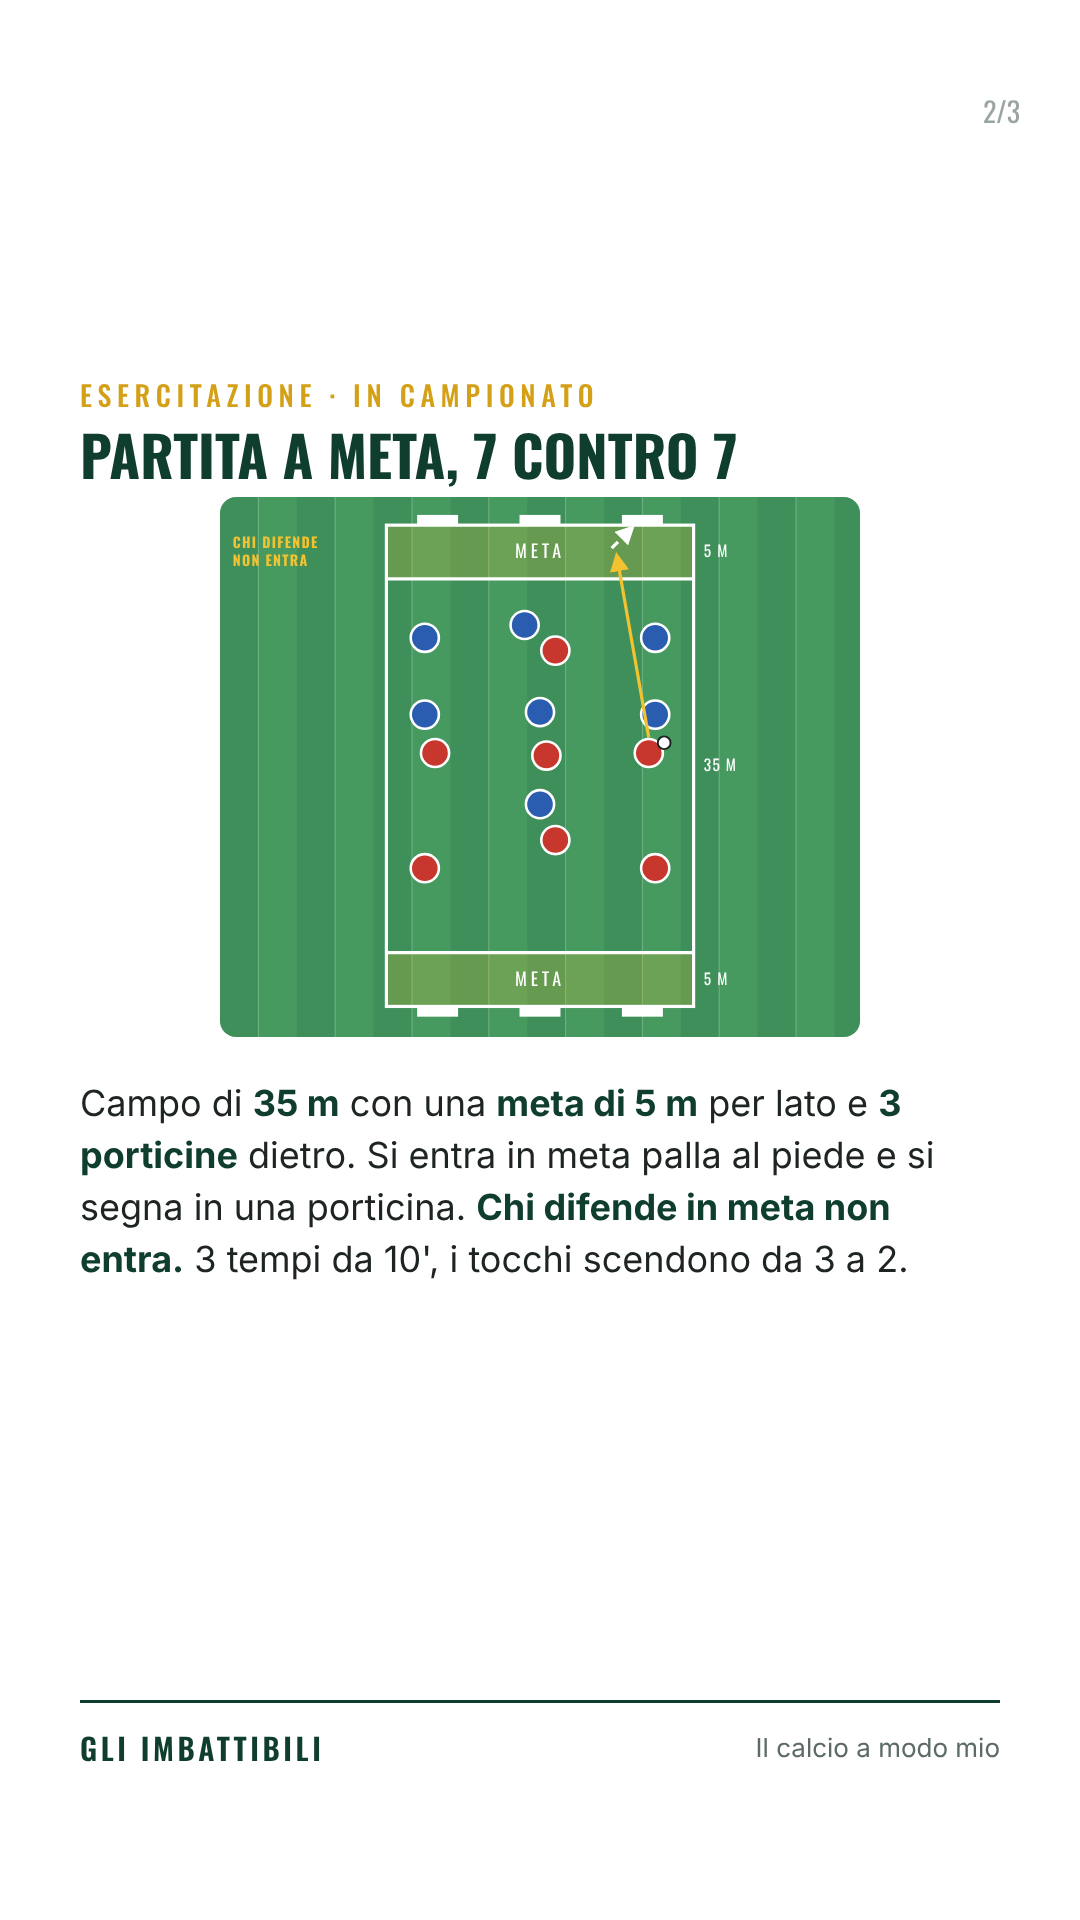
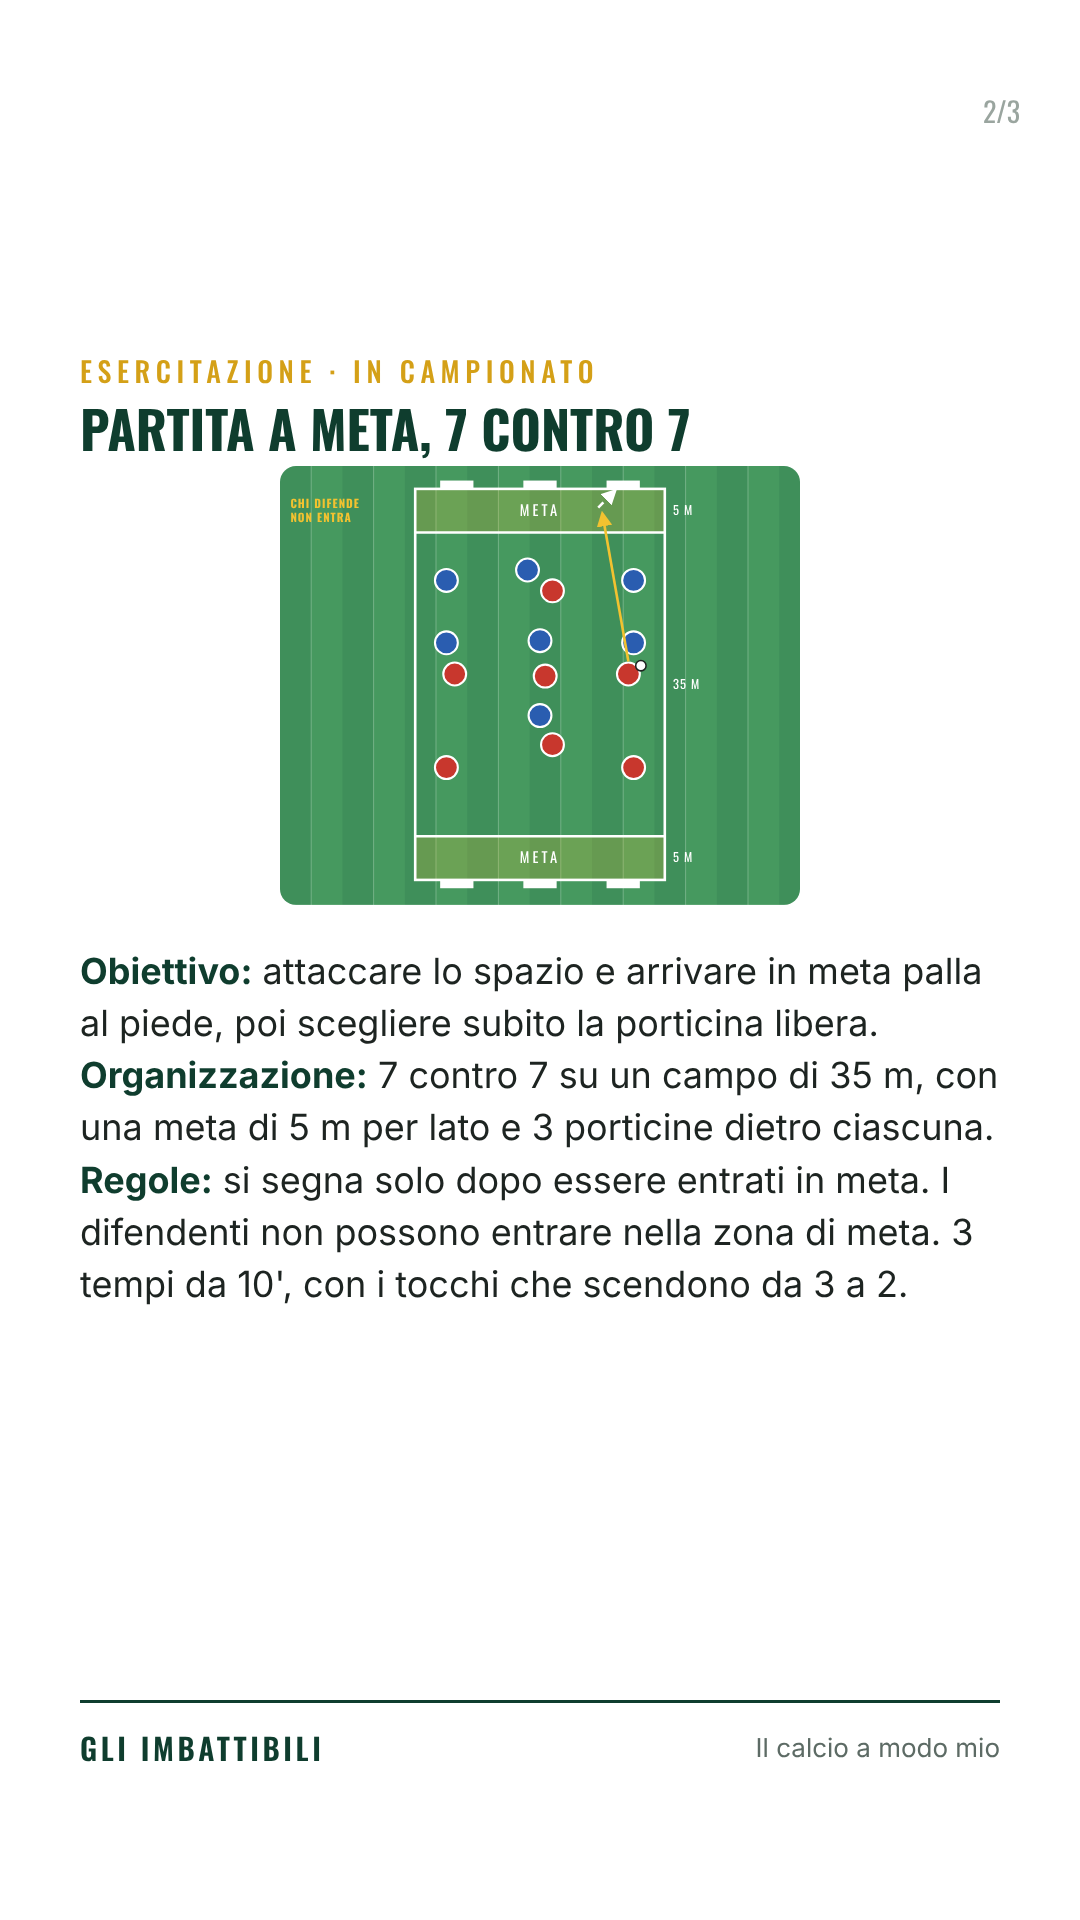
Post 18: testo come scheda tecnica
Claude-Session: https://claude.ai/code/session_01Y6imChDnJpMKHUHGGzDa7m

Changed region(s): [[0.0611, 0.1875, 0.9167, 0.6875]]

diff --git a/marketing/social/post-solo18-4x5.html b/marketing/social/post-solo18-4x5.html
@@ -93,8 +93,8 @@ h1, h2 { font-family: Oswald, sans-serif; font-weight: 700; text-transform: uppe
 <section class="slide int">
   <div class="num">2/3</div>
   <div class="kicker">Esercitazione · In campionato</div>
-  <h2 style="font-size:56px;margin-bottom:14px">Partita a meta, 7 contro 7</h2>
-  <div class="riq" style="width:100%;max-width:640px;margin:0 auto"><svg class="schema" viewBox="0 0 500 422">
+  <h2 style="font-size:52px;margin-bottom:12px">Partita a meta, 7 contro 7</h2>
+  <div class="riq" style="width:100%;max-width:520px;margin:0 auto"><svg class="schema" viewBox="0 0 500 422">
     <rect width="500" height="422" fill="url(#strisce)"/>
     <rect x="130" y="22" width="240" height="42" fill="#f2c230" fill-opacity=".22"/>
     <rect x="130" y="356" width="240" height="42" fill="#f2c230" fill-opacity=".22"/>
@@ -115,7 +115,7 @@ h1, h2 { font-family: Oswald, sans-serif; font-weight: 700; text-transform: uppe
     <use href="#pB" x="160" y="110"/><use href="#pB" x="238" y="100"/><use href="#pB" x="340" y="110"/><use href="#pB" x="160" y="170"/><use href="#pB" x="250" y="168"/><use href="#pB" x="340" y="170"/><use href="#pB" x="250" y="240"/><use href="#pA" x="262" y="120"/><use href="#pA" x="168" y="200"/><use href="#pA" x="255" y="202"/><use href="#pA" x="335" y="200"/><use href="#pA" x="160" y="290"/><use href="#pA" x="262" y="268"/><use href="#pA" x="340" y="290"/>
     <path d="M335,188 L310,46" stroke="#f2c230" stroke-width="2.5" fill="none" marker-end="url(#freccia-oro)"/><path d="M306,40 L322,24" stroke="#fff" stroke-width="2.5" fill="none" stroke-dasharray="7 5" marker-end="url(#freccia)"/>
     <use href="#palla" x="347" y="192"/>
-  </svg></div><p class="desc">Campo di <b>35 m</b> con una <b>meta di 5 m</b> per lato e <b>3 porticine</b> dietro. Si entra in meta palla al piede e si segna in una porticina. <b>Chi difende in meta non entra.</b> 3 tempi da 10', i tocchi scendono da 3 a 2.</p>
+  </svg></div><p class="desc"><b>Obiettivo:</b> attaccare lo spazio e arrivare in meta palla al piede, poi scegliere subito la porticina libera.<br><b>Organizzazione:</b> 7 contro 7 su un campo di 35 m, con una meta di 5 m per lato e 3 porticine dietro ciascuna.<br><b>Regole:</b> si segna solo dopo essere entrati in meta. I difendenti non possono entrare nella zona di meta. 3 tempi da 10', con i tocchi che scendono da 3 a 2.</p>
   <div class="marchio"><b>GLI IMBATTIBILI</b><span>Il calcio a modo mio</span></div>
 </section>
 <section class="slide fine">

diff --git a/marketing/social/post-solo18-9x16.html b/marketing/social/post-solo18-9x16.html
@@ -93,8 +93,8 @@ h1, h2 { font-family: Oswald, sans-serif; font-weight: 700; text-transform: uppe
 <section class="slide int">
   <div class="num">2/3</div>
   <div class="kicker">Esercitazione · In campionato</div>
-  <h2 style="font-size:56px;margin-bottom:14px">Partita a meta, 7 contro 7</h2>
-  <div class="riq" style="width:100%;max-width:640px;margin:0 auto"><svg class="schema" viewBox="0 0 500 422">
+  <h2 style="font-size:52px;margin-bottom:12px">Partita a meta, 7 contro 7</h2>
+  <div class="riq" style="width:100%;max-width:520px;margin:0 auto"><svg class="schema" viewBox="0 0 500 422">
     <rect width="500" height="422" fill="url(#strisce)"/>
     <rect x="130" y="22" width="240" height="42" fill="#f2c230" fill-opacity=".22"/>
     <rect x="130" y="356" width="240" height="42" fill="#f2c230" fill-opacity=".22"/>
@@ -115,7 +115,7 @@ h1, h2 { font-family: Oswald, sans-serif; font-weight: 700; text-transform: uppe
     <use href="#pB" x="160" y="110"/><use href="#pB" x="238" y="100"/><use href="#pB" x="340" y="110"/><use href="#pB" x="160" y="170"/><use href="#pB" x="250" y="168"/><use href="#pB" x="340" y="170"/><use href="#pB" x="250" y="240"/><use href="#pA" x="262" y="120"/><use href="#pA" x="168" y="200"/><use href="#pA" x="255" y="202"/><use href="#pA" x="335" y="200"/><use href="#pA" x="160" y="290"/><use href="#pA" x="262" y="268"/><use href="#pA" x="340" y="290"/>
     <path d="M335,188 L310,46" stroke="#f2c230" stroke-width="2.5" fill="none" marker-end="url(#freccia-oro)"/><path d="M306,40 L322,24" stroke="#fff" stroke-width="2.5" fill="none" stroke-dasharray="7 5" marker-end="url(#freccia)"/>
     <use href="#palla" x="347" y="192"/>
-  </svg></div><p class="desc">Campo di <b>35 m</b> con una <b>meta di 5 m</b> per lato e <b>3 porticine</b> dietro. Si entra in meta palla al piede e si segna in una porticina. <b>Chi difende in meta non entra.</b> 3 tempi da 10', i tocchi scendono da 3 a 2.</p>
+  </svg></div><p class="desc"><b>Obiettivo:</b> attaccare lo spazio e arrivare in meta palla al piede, poi scegliere subito la porticina libera.<br><b>Organizzazione:</b> 7 contro 7 su un campo di 35 m, con una meta di 5 m per lato e 3 porticine dietro ciascuna.<br><b>Regole:</b> si segna solo dopo essere entrati in meta. I difendenti non possono entrare nella zona di meta. 3 tempi da 10', con i tocchi che scendono da 3 a 2.</p>
   <div class="marchio"><b>GLI IMBATTIBILI</b><span>Il calcio a modo mio</span></div>
 </section>
 <section class="slide fine">

diff --git a/marketing/social/genera-post.py b/marketing/social/genera-post.py
@@ -634,8 +634,8 @@ POST = [
         sub="Una seduta di <b>In campionato</b>: la partita a meta.",
         custom=[
             dict(kicker="Esercitazione · In campionato", titolo="Partita a meta, 7 contro 7", schema=schema_meta(),
-                 testo="Campo di <b>35 m</b> con una <b>meta di 5 m</b> per lato e <b>3 porticine</b> dietro. Si entra in meta palla al piede e si segna in una porticina. <b>Chi difende in meta non entra.</b> 3 tempi da 10', i tocchi scendono da 3 a 2.",
-                 h2style="font-size:56px;margin-bottom:14px", riqstyle="width:100%;max-width:640px;margin:0 auto"),
+                 testo="<b>Obiettivo:</b> attaccare lo spazio e arrivare in meta palla al piede, poi scegliere subito la porticina libera.<br><b>Organizzazione:</b> 7 contro 7 su un campo di 35 m, con una meta di 5 m per lato e 3 porticine dietro ciascuna.<br><b>Regole:</b> si segna solo dopo essere entrati in meta. I difendenti non possono entrare nella zona di meta. 3 tempi da 10', con i tocchi che scendono da 3 a 2.",
+                 h2style="font-size:52px;margin-bottom:12px", riqstyle="width:100%;max-width:520px;margin:0 auto"),
         ],
         fine_h1="Attacca lo spazio<span>alza la testa</span>",
         fine_sub="È una delle 9 sedute di <b>Gli Imbattibili · In campionato</b>, con le partite del fine settimana. Le trovi tutte nel negozio: link in bio.",

diff --git a/CLAUDE.md b/CLAUDE.md
@@ -362,3 +362,4 @@ Playwright e Chromium sono già installati nell'ambiente. I font sono locali
 - **Regola del 10/11 (allenatore)**: ogni contenuto rimanda SEMPRE al negozio Etsy. Settimana tipo (rivista il 10/11 con l'allenatore): **martedì e sabato** Reel HeyGen su Instagram + carosello con le stesse slide su TikTok (su TikTok rendono di più i caroselli); **giovedì carosello con un'esercitazione da un PDF già in vendita** (IG + TikTok). Sempre rimando al negozio.
 - **12/11 (allenatore)**: il 4 contro 4 con 8 sponde dell'Allenamento 11 (gol solo di prima su passaggio della sponda) è un suo «must»: **mai nei post**, resta solo nel PDF. Prima di proporre un'esercitazione da regalare nei post, chiedere se è tra quelle che vuole tenere solo nel PDF.
 - Partita a meta (A12, 12/11): nella zona di meta i difensori non possono entrare (precisato dall'allenatore). Da aggiungere al PDF In campionato alla prossima revisione (conversazione ALLENAMENTI).
+- **12/11 (allenatore)**: nei caroselli con esercitazione la seconda immagine va scritta come scheda tecnica: **Obiettivo · Organizzazione · Regole**, niente frasi a telegramma.
